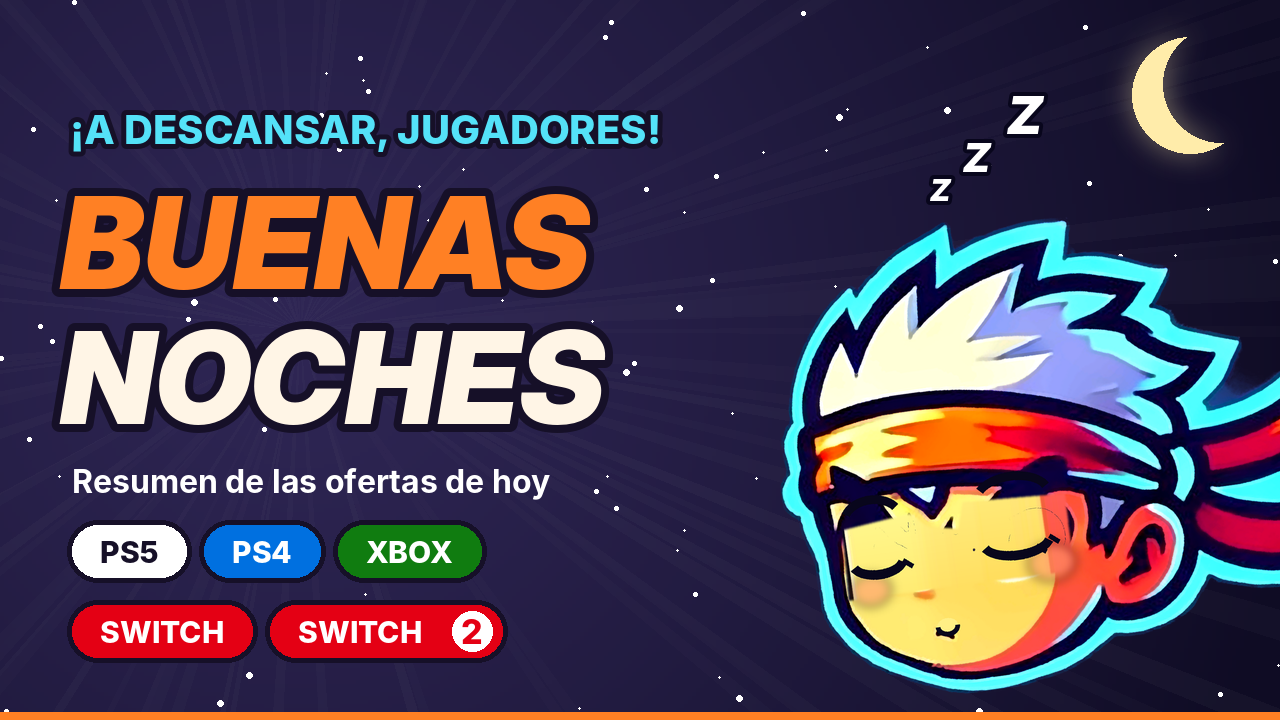
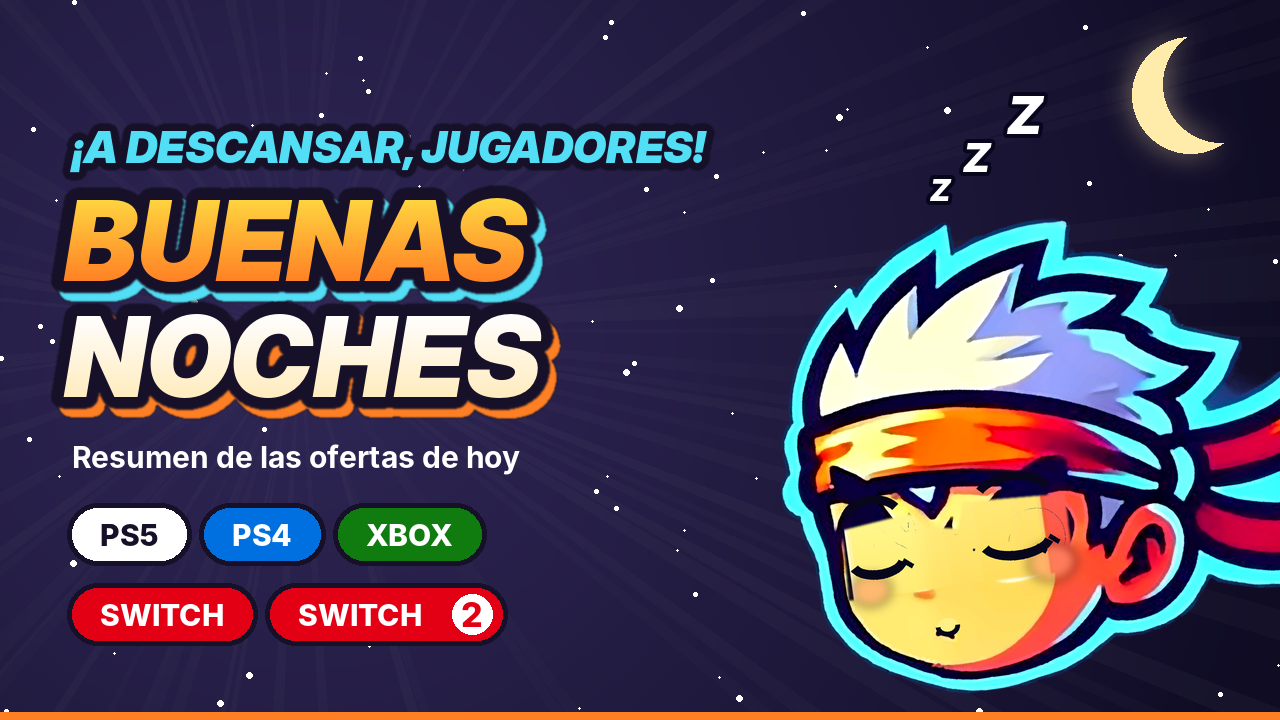
1.7.2: cabeceras de buenos días y buenas noches a juego
Buenos días con PS5, PS4, Xbox, Switch y Switch 2 en dos filas y las
etiquetas de las tarjetas. Buenas noches con el mismo texto «pegatina»
(degradado, contorno y sombra) y posiciones que buenos días.

Claude-Session: https://claude.ai/code/session_01DzQytUnBn8fYtKquiVLCZm

Changed region(s): [[0.0312, 0.1528, 0.5625, 0.9472]]

diff --git a/tools/branding/generar_buenas_noches.py b/tools/branding/generar_buenas_noches.py
@@ -18,7 +18,10 @@ from PIL import Image, ImageDraw, ImageFilter, ImageFont, ImageOps
 ROOT = Path(__file__).resolve().parents[2]
 sys.path.insert(0, str(ROOT))
 from hadouken_zone import cards  # noqa: E402
-from hadouken_zone.cards import H, W, _etiqueta_plataforma, _fondo  # noqa: E402
+from hadouken_zone.cards import H, W, _fondo  # noqa: E402
+
+sys.path.insert(0, str(ROOT / "tools" / "branding"))
+import hzlib  # noqa: E402  (mismo estilo de texto que generar_disenos.header)
 
 B = ROOT / "branding"
 SALIDA = B / "telegram" / "cabeceras" / "cabecera_buenas_noches.png"
@@ -109,20 +112,19 @@ def generar(salida: Path = SALIDA) -> Path:
         img.alpha_composite(capa)
         x, y = x + int(s * 1.1), y - int(s * 0.95)
 
+    # Texto con el mismo estilo y posiciones que la cabecera de buenos días (generar_disenos.header)
+    y = 120
+    hzlib.sticker_text(img, (72, y), "¡A DESCANSAR, JUGADORES!", hzlib.font(44), fill=hzlib.CYAN, ink_w=7, accent=None)
+    hzlib.sticker_text(img, (64, y + 52), "BUENAS", hzlib.font(112), fill=[hzlib.YELLOW, hzlib.ORANGE], ink_w=12,
+                       accent=hzlib.CYAN, accent_off=(7, 9))
+    hzlib.sticker_text(img, (64, y + 168), "NOCHES", hzlib.font(112), fill=[hzlib.WHITE, (255, 236, 190)], ink_w=12,
+                       accent=hzlib.ORANGE, accent_off=(7, 9))
     d = ImageDraw.Draw(img)
-
-    def txt(xy, t, f, fill, sw=8):
-        d.text(xy, t, font=f, fill=fill, stroke_width=sw, stroke_fill=(22, 16, 40))
-    txt((70, 105), "¡A DESCANSAR, JUGADORES!", F("Inter-ExtraBold.otf", 40), CYAN, sw=5)
-    txt((60, 165), "BUENAS", F("InterDisplay-BlackItalic.otf", 128), (255, 128, 36))
-    txt((60, 300), "NOCHES", F("InterDisplay-BlackItalic.otf", 128), (255, 245, 230))
-    d.text((72, 462), "Resumen de las ofertas de hoy", font=F("Inter-Bold.otf", 32), fill=(255, 255, 255))
-    P = cards.PLATAFORMAS
-    for fila, claves in ((525, ["ps5", "ps4", "xbox"]), (605, ["switch", "switch 2"])):
-        x = 72
-        for k in claves:
-            n, c, t = P[k]
-            x += _etiqueta_plataforma(d, x, fila, n, c, t) + 18
+    yb = y + 318
+    d.text((72, yb), "Resumen de las ofertas de hoy", font=hzlib.font(30, "Bold", italic=False, display=False),
+           fill=(255, 255, 255))
+    hzlib.etiquetas_plataforma(img, 72, yb + 70)
+    d = ImageDraw.Draw(img)
     d.rectangle((0, H - 8, W, H), fill=(255, 128, 36))
     salida.parent.mkdir(parents=True, exist_ok=True)
     img.convert("RGB").save(salida)

diff --git a/tools/branding/generar_disenos.py b/tools/branding/generar_disenos.py
@@ -89,7 +89,8 @@ def avatares():
 
 
 # ---------- CABECERAS 1280x720 ----------
-def header(path, kicker, l1, l2, c1, c2, accent, sub=None, pose='head', burst=ORANGE, pills=None, bolts=False):
+def header(path, kicker, l1, l2, c1, c2, accent, sub=None, pose='head', burst=ORANGE, pills=None, bolts=False,
+           plataformas=None):
     W, H = 1280, 720
     img = radial_bg(W, H, center=(960, 360), inner=(92, 76, 150), outer=BG_DARK, radius=900)
     speed_lines(img, (960, 360), n=90, alpha=16, seed=len(l1))
@@ -113,7 +114,9 @@ def header(path, kicker, l1, l2, c1, c2, accent, sub=None, pose='head', burst=OR
             bolt(d, x, yb + 2, 40); x += 48
         d.text((x, yb), sub, font=fb, fill=WHITE)
         yb += 70
-    if pills:
+    if plataformas:                       # mismas etiquetas que las tarjetas, en filas
+        etiquetas_plataforma(img, 72, yb, plataformas)
+    elif pills:
         f = font(30, 'ExtraBold', italic=False, display=False)
         x = 76
         for label, col in pills:
@@ -127,7 +130,7 @@ def cabeceras():
     O = TG / 'cabeceras'
     header(O / 'cabecera_buenos_dias.png', '¡ARRIBA, JUGADORES!', 'BUENOS', 'DÍAS', [YELLOW, ORANGE], [WHITE, (255, 236, 190)],
            ORANGE, sub='Empieza la caza de ofertas', pose='hadouken', burst=YELLOW,
-           pills=[('PS5', PS_BLUE), ('SWITCH', SW_RED)])
+           plataformas=PLATAFORMAS_FILAS)
     header(O / 'cabecera_chollo_del_dia.png', 'HADOUKEN ZONE', 'CHOLLO', 'DEL DÍA', [WHITE, (255, 236, 190)], [YELLOW, ORANGE],
            ORANGE, sub='La mejor oferta de hoy, verificada', pose='hadouken')
     header(O / 'cabecera_oferta_flash.png', '¡SOLO UNAS HORAS!', 'OFERTA', 'FLASH', [WHITE, (255, 236, 190)], [YELLOW, ORANGE],

diff --git a/tools/branding/hzlib.py b/tools/branding/hzlib.py
@@ -193,6 +193,27 @@ def pill(img, box, fill, text, fnt, txt=WHITE, ink=INK, ink_w=5, radius=None):
     d.text(((x0 + x1) / 2, (y0 + y1) / 2 + 1), text, font=fnt, fill=txt, anchor='mm')
 
 
+# Etiquetas de plataforma de la cabecera: las mismas que las tarjetas (hadouken_zone/cards.py)
+PLATAFORMAS_FILAS = (("ps5", "ps4", "xbox"), ("switch", "switch 2"))
+
+
+def etiquetas_plataforma(img, x, y, filas=PLATAFORMAS_FILAS, sep=18, salto=80):
+    """Dibuja las etiquetas de plataforma en filas y devuelve el borde derecho más lejano."""
+    import sys
+    if str(ROOT) not in sys.path:
+        sys.path.insert(0, str(ROOT))
+    from hadouken_zone.cards import PLATAFORMAS, _etiqueta_plataforma
+    d = ImageDraw.Draw(img)
+    derecha = x
+    for i, fila in enumerate(filas):
+        xx = x
+        for clave in fila:
+            nombre, color, tinta = PLATAFORMAS[clave]
+            xx += _etiqueta_plataforma(d, xx, y + i * salto, nombre, color, tinta) + sep
+        derecha = max(derecha, xx - sep)
+    return derecha
+
+
 def load(name):
     return Image.open(MASCOTA / name).convert('RGBA')
 

diff --git a/hadouken_zone/__init__.py b/hadouken_zone/__init__.py
@@ -1,3 +1,3 @@
 """Hadouken Zone: bot de Telegram con ofertas de videojuegos de PS5, PS4, Nintendo Switch, Switch 2 y Xbox en Amazon."""
 
-__version__ = "1.7.1"
+__version__ = "1.7.2"

diff --git a/docs/CHANGELOG.md b/docs/CHANGELOG.md
@@ -1,5 +1,10 @@
 # Registro de cambios
 
+## 1.7.2 — 2026-11-28 · Cabeceras de buenos días y buenas noches a juego
+- **Buenos días** con las cinco plataformas en dos filas (PS5, PS4, Xbox / Switch, Switch 2) y las mismas etiquetas que las tarjetas (PS5 blanca, Switch 2 con el «2» en círculo). Antes solo salían PS5 (aún en azul) y Switch. No tapan la mascota.
+- **Buenas noches** con el mismo estilo de letra que buenos días: texto «pegatina» con degradado, contorno grueso y sombra de color desplazada (`hzlib.sticker_text`), mismas posiciones y tamaños.
+- Nuevo `hzlib.etiquetas_plataforma()`: las cabeceras dibujan las plataformas con `cards._etiqueta_plataforma`, así que siempre coinciden con las tarjetas.
+
 ## 1.7.1 — 2026-11-28 · Fuera periféricos que no son juegos
 - Más palabras de accesorios y hardware en `rules.py` (`EXCLUDED_WORDS`): informática y redes (gigabit, ethernet, puertos, USB, HDMI, dock, hub, Bluetooth, wireless, dpi, teclado, monitor…), audio e imagen (altavoz, barra de sonido, televisor, proyector) y otros (ventilador, power bank, estuche, mochila).
 - Motivo: se colaron un switch de red TP-Link («Switch Gigabit 5 Puertos», tomado por Nintendo Switch), un altavoz de cuello Sony BRAVIA («función Gaming PS5») y un ratón 8BitDo («Xbox Edition»).
